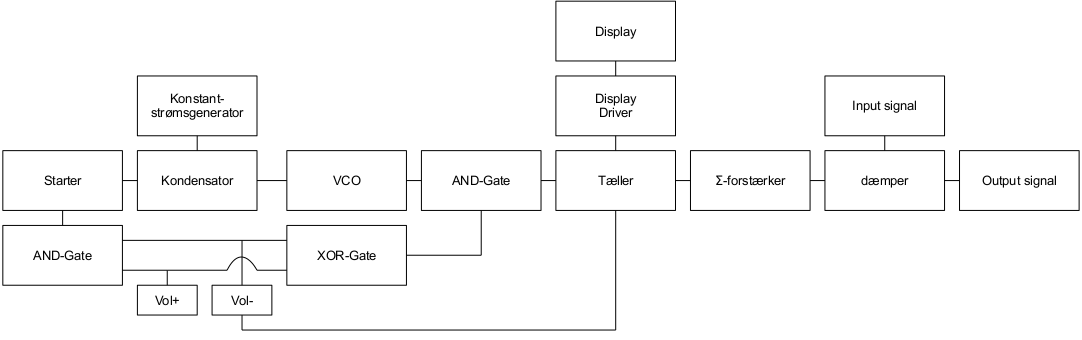
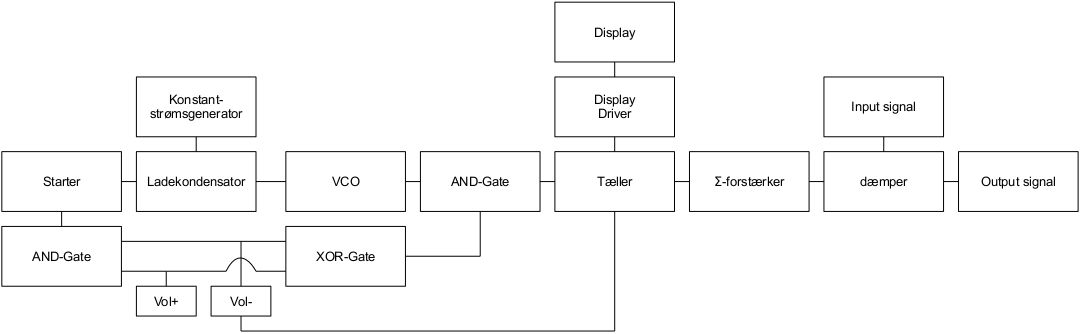
Volumenkontrol

diff --git a/rapport/implementering/volumenkontrol/volumenkontrol.tex b/rapport/implementering/volumenkontrol/volumenkontrol.tex
@@ -17,8 +17,46 @@
 \begin{figure}[h]
 \centering
 \includegraphics[width=\textwidth]{implementering/volumenkontrol/diagram.png}
-\caption{Blokdiagram over volumenkontrollen}
-\label{fig:volumenkontrol_opbygning}
+\caption{Diagram over volumenkontrollen}
+\label{fig:volumenkontrol_diagram}
+\end{figure}
+
+\subsubsection{Konstantstrømsgenerator}
+\label{volumenkontrol-simulering-konstantstroemsgenerator}
+
+Konstantstrømsgeneratorens opgave er at leve en konstant strøm, denne strøm bruges til at oplade en kondensator (ladekondensatoren). Diagrammet er vist på figur \ref{fig:volumenkontrol_konstantstroemsgenerator_diagram}. Når en kondensator lades med en konstant strøm, vil spændingen over den stige lineært, dette fremgår også af ligning \ref{equ:konstantstroemsgenerator1}.
+
+\begin{equation}
+\label{equ:konstantstroemsgenerator1}
+V = \frac{I \cdot t}{C}
+\end{equation}
+
+Konstantstrømsgeneratoren er designet med udgangs på at der vil være et spændingsfald på $0,5 V$ over $D_2$, $D_3$, $R_{11}$ og $Q_{4_{BE}}$. I databladet for 1N4148 fremgår det at den vil have en $V_F$ spændingen på $0,5 V$ ved en $I_F$ strøm på $0,1 mA$. Spændingen over modstanden $R_{12}$ er således givet ved ligningen \ref{equ:konstantstroemsgenerator2}.
+
+\begin{equation}
+\label{equ:konstantstroemsgenerator2}
+U_{R_{12}} = \frac{V_{CC} - 2 \cdot V_F}{I_F} = \frac{5V - 2 \cdot 0,5 V}{0,1 mA} = 40 k\Omega
+\end{equation}
+
+Den kondensator som Konstantstrømsgeneratoren kaldes ladekondensatoren, denne har en kapacitet på $5 \mu F$ og den ønskede oplade tid er $3 s$. Udfra disse to ting kan den konstante strøm, $I_{konst}$, nu beregnes, se ligning \ref{equ:konstantstroemsgenerator3}.
+
+\begin{equation}
+\label{equ:konstantstroemsgenerator3}
+V_{CC} = \frac{I_{konst} \cdot t}{C} \Rightarrow 5 V = \frac{I_{konst} \cdot 3 s}{5 \mu F} \Rightarrow I_{konst} = 8,3 \mu A
+\end{equation}
+
+Spændingen over $R_{11}$ er, som tidligere nævnt, $0,5 V$ og strømmen igennem den er $I_{konst}$, der kan Ohms lov bruges til at beregne modstanden, se ligning \ref{equ:konstantstroemsgenerator4}.
+
+\begin{equation}
+\label{equ:konstantstroemsgenerator4}
+V = R \cdot I = 0,5 V = R \cdot 8,3 \mu A \Rightarrow R = 60 k\Omega
+\end{equation}
+
+\begin{figure}[h]
+\centering
+\includegraphics[scale=.6]{implementering/volumenkontrol/konstantstroemsgenerator.png}
+\caption{Diagram over konstantstrømsgeneratoren}
+\label{fig:volumenkontrol_konstantstroemsgenerator_diagram}
 \end{figure}
 
 \subsection{Accepttest}
